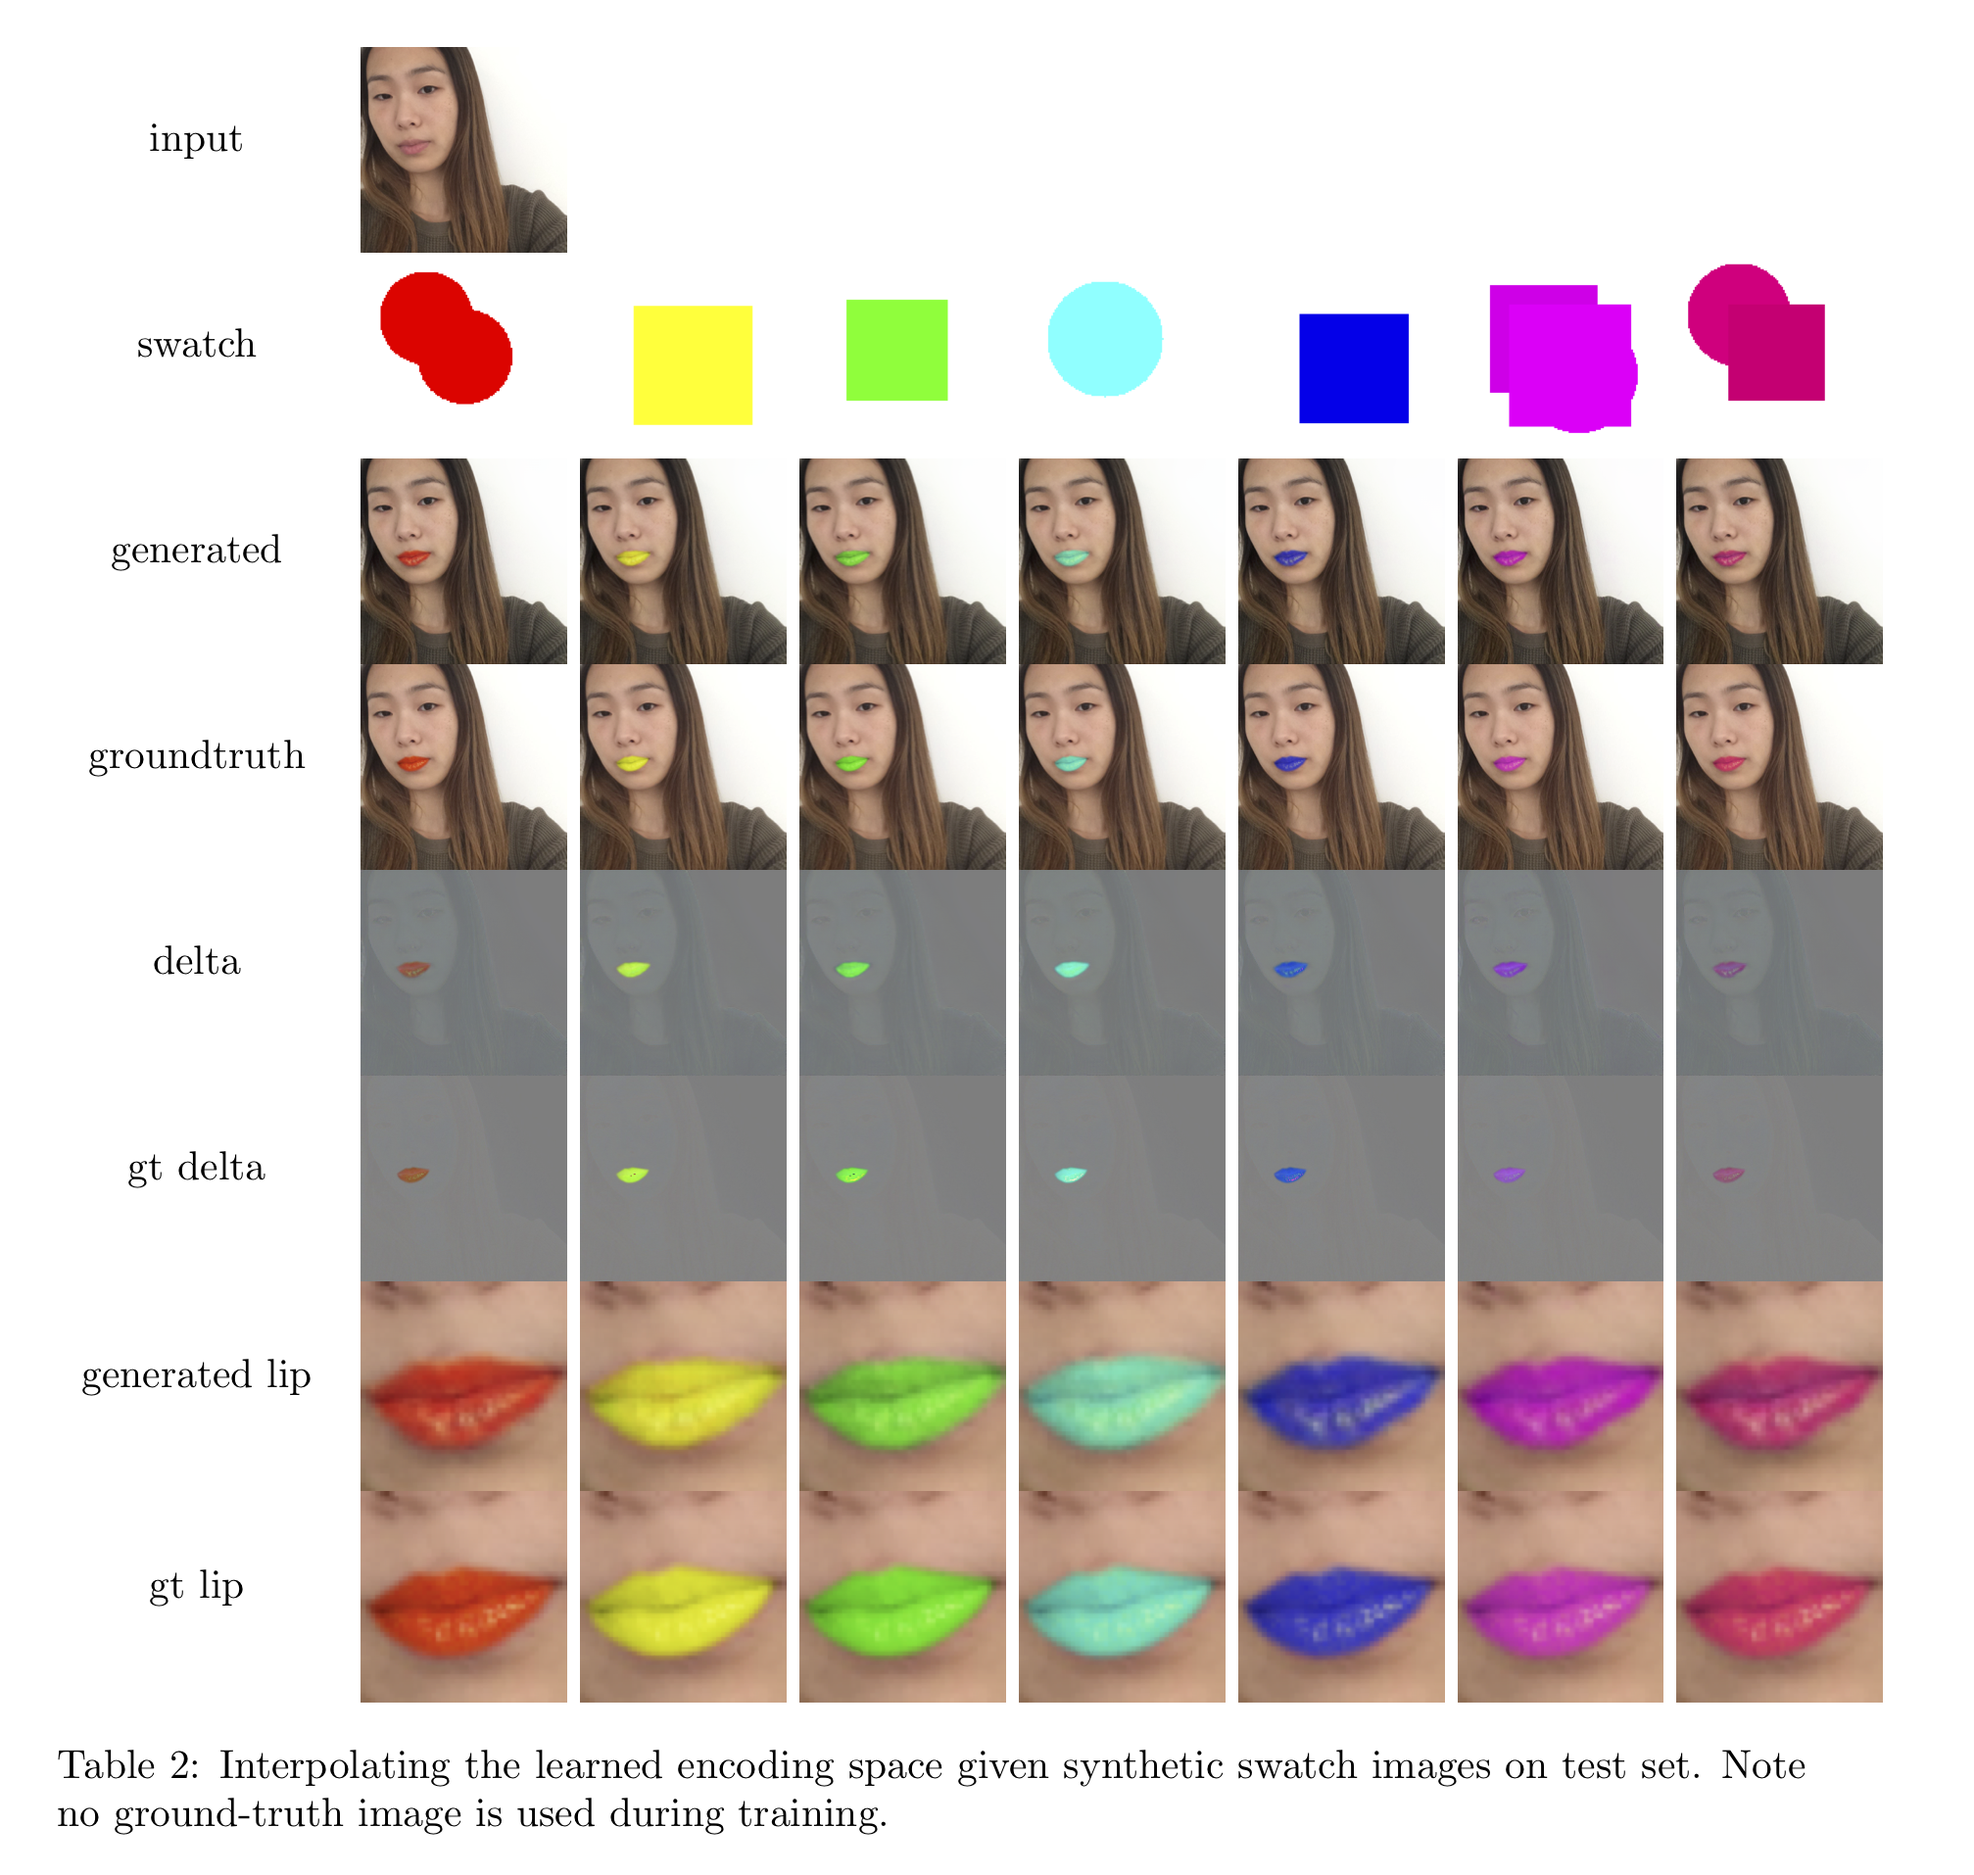
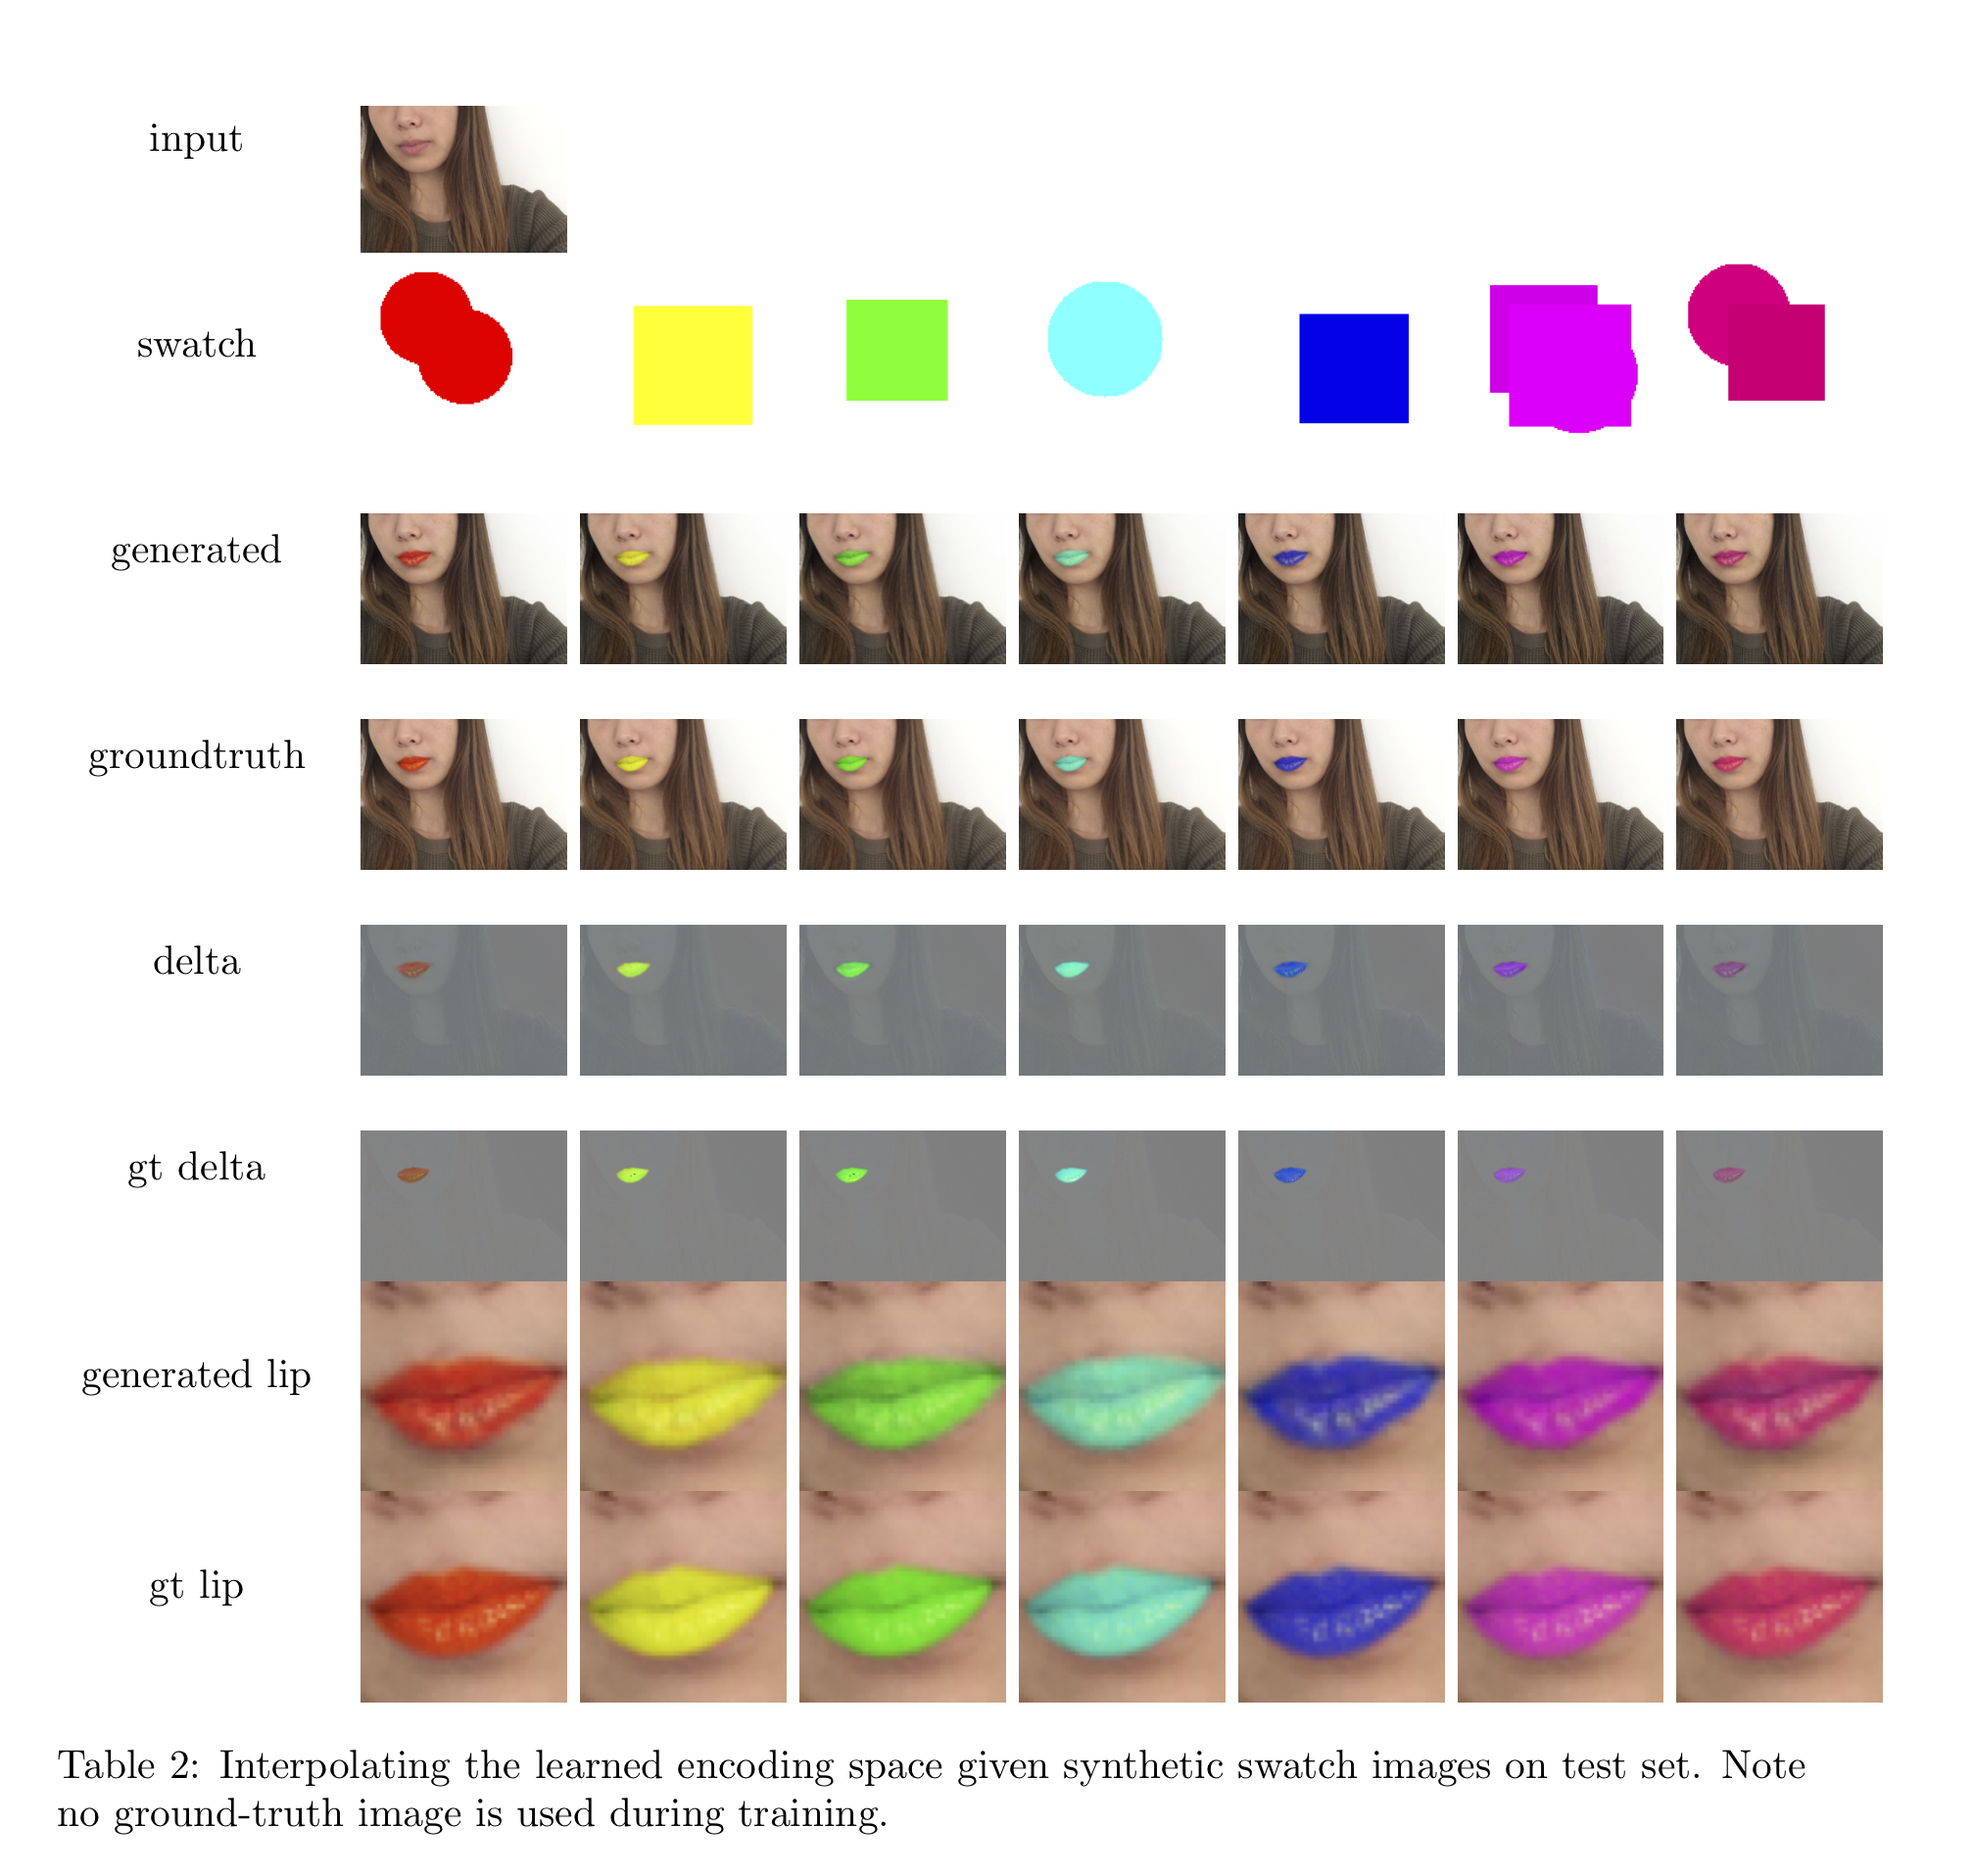
update to 2024

diff --git a/index.html b/index.html
@@ -148,15 +148,47 @@
             <section class="section experiences-section">
                 <h2 class="section-title">
                     <i class="fa fa-briefcase"></i>Experiences</h2>
+                    <div class="item">
+                        <div class="meta">
+                            <div class="upper-row">
+                                <h3 class="job-title">Data Science Manager</h3>
+                                <div class="time">Jan. 2020 - Now</div>
+                            </div> 
+                            <div class="company">Scotiabank, Toronto</div>
+                        </div>
+                        <!-- <div class="details">
+                            <ul>
+                            <li>Participate in transforming and building the client 360&deg; feature dataset on a new spark and hardoop based system to enable machine learninig algorithms for improved client offer proposition and campain strategy. </li>
+                            <li>Build a SAS code and word document interpreter for automated and accurate information-of-interest extraction.</li>
+                            <li>Build an offer creation and update system with a form front-end and data set back-end with transform and validation rules written in pyspark.</li> 
+                            </ul>
+                        </div> -->
+                    </div>
 
+                    <div class="item">
+                        <div class="meta">
+                            <div class="upper-row">
+                                <h3 class="job-title">Data Engineer</h3>
+                                <div class="time">Oct. 2018 - Jul. 2019</div>
+                            </div>
+                            <div class="company">Coinscious.io, Toronto</div>
+                        </div>
+                        <!-- <div class="details">
+                            <ul>
+                            <li>Participate in transforming and building the client 360&deg; feature dataset on a new spark and hardoop based system to enable machine learninig algorithms for improved client offer proposition and campain strategy. </li>
+                            <li>Build a SAS code and word document interpreter for automated and accurate information-of-interest extraction.</li>
+                            <li>Build an offer creation and update system with a form front-end and data set back-end with transform and validation rules written in pyspark.</li> 
+                            </ul>
+                        </div> -->
+                    </div>
 
                 <div class="item">
                     <div class="meta">
                         <div class="upper-row">
                             <h3 class="job-title">AI Researcher</h3>
-                            <div class="time">Mar. 2018 - Nov. 2018</div>
+                            <div class="time">Mar. 2018 - Oct. 2018</div>
                         </div>
-                        <div class="company">ModiFace, a L’Oréal Group Company, Toronto</div>
+                        <div class="company">ModiFace, Toronto</div>
                     </div>
                     <!-- <div class="details">
                         <ul>
@@ -172,9 +204,9 @@
                     <div class="meta">
                         <div class="upper-row">
                             <h3 class="job-title">Data Analyst</h3>
-                            <div class="time">2017 - 2018</div>
+                            <div class="time">Sep. 2017 - Feb. 2018</div>
                         </div>
-                        <div class="company">RBC Royal Bank, Toronto</div>
+                        <div class="company">Royal Bank of Canada, Toronto</div>
                     </div>
                     <!-- <div class="details">
                         <ul>
